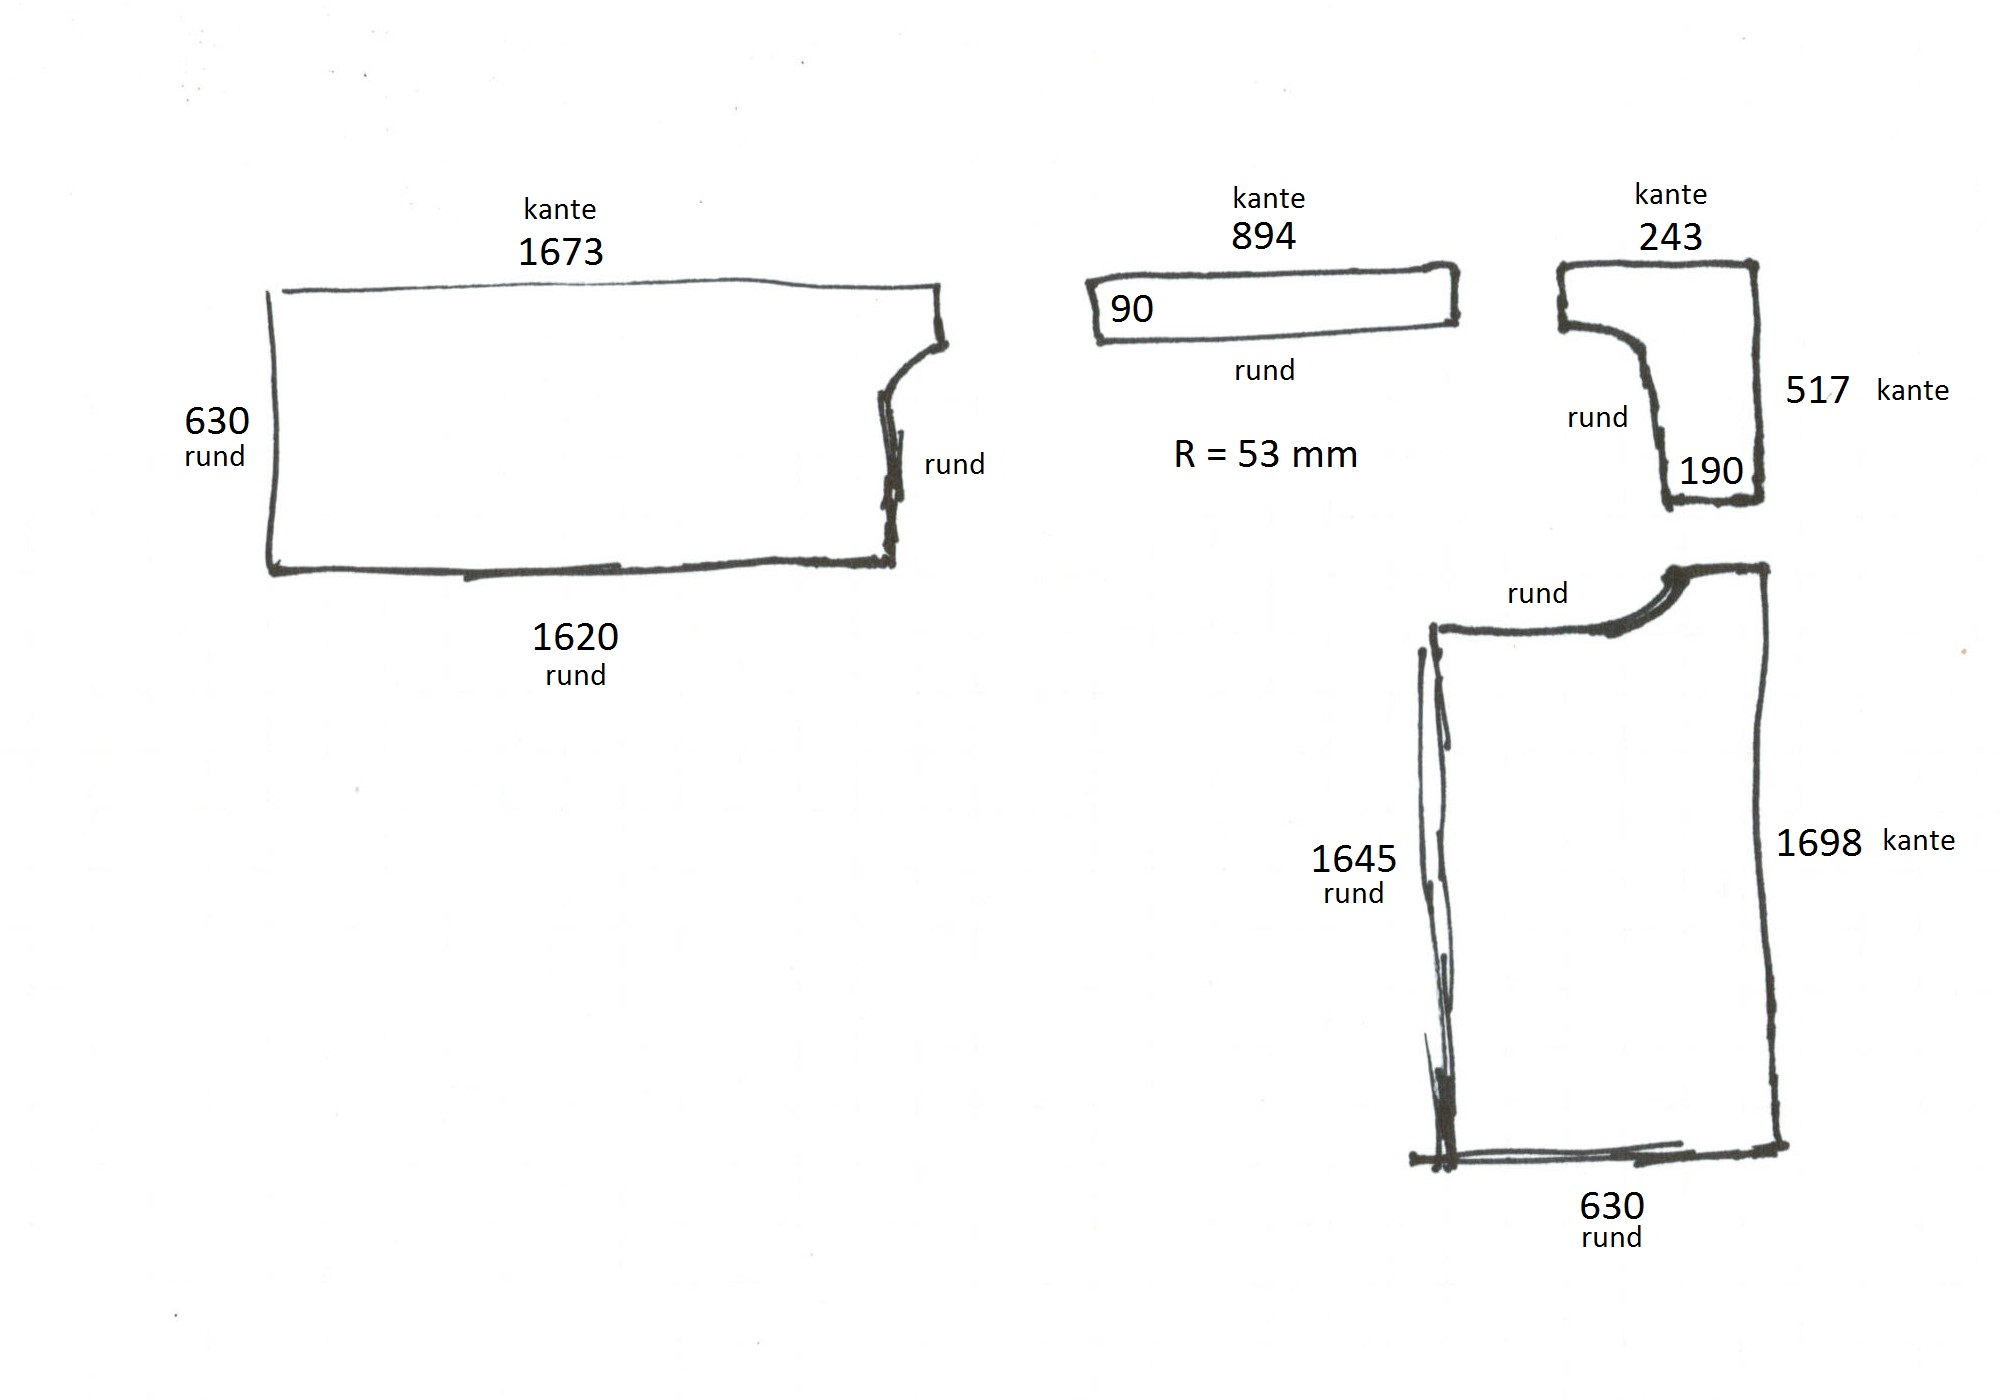
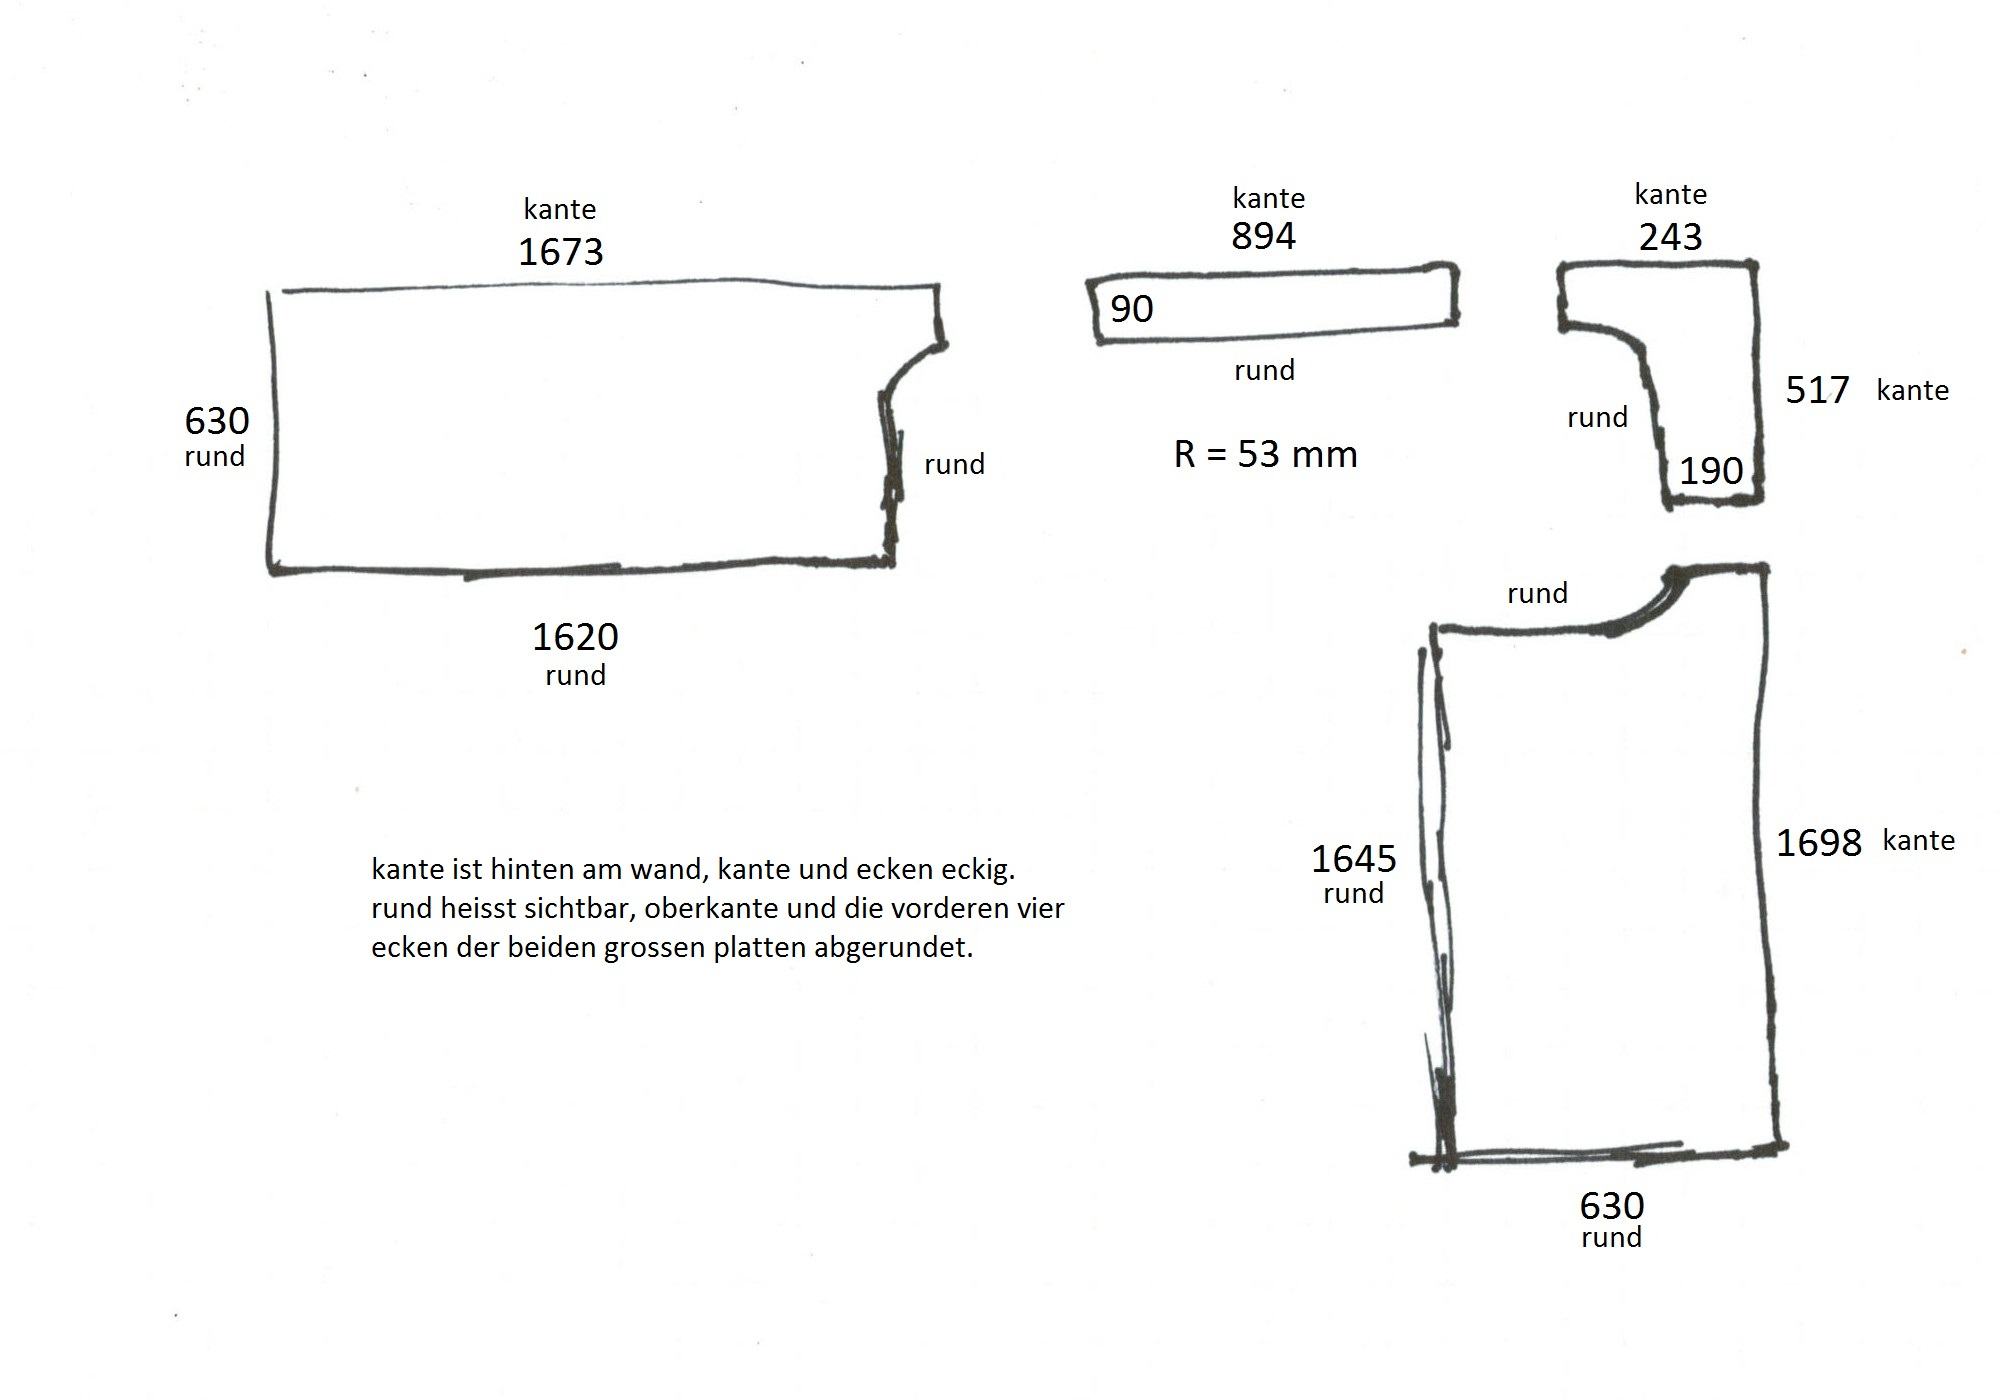
added kitchen window sill sketch

Changed region(s): [[0.186, 0.6143, 0.527, 0.7064]]

diff --git a/index.html b/index.html
@@ -18,7 +18,7 @@
 </ul>
 </li>
 <li>kueche<ul>
-<li>fensterbank im selben stein wie kuechenarbeitsplatte?</li>
+<li>fensterbank im selben stein wie kuechenarbeitsplatte? <a href="img/kuechenfensterbank_skizze_1.jpg">skizze</a></li>
 <li>schubladenfronten 90 * (80+80+40) also 1 m * 2 m = 2 qm <a href="http://www.euroforest-products.de/index.php/de/3-schicht-platten">kirschholz dreischichtplatte</a></li>
 <li>fridge <a href="https://www.notebooksbilliger.de">notebooksbilliger.de</a> <a href="https://www.notebooksbilliger.de/produkte/bomann+kg+185#!/q/bomann%20kg%20185/Marke/Bomann">Bomann KG 185 Weiß Kühl-/Gefrierkombination, A++, 164/61 Liter</a>, eur 299</li>
 <li>wasserarmatur? spueldusche? schwenkhahn mit schnuddel?</li>

diff --git a/index.md b/index.md
@@ -16,7 +16,7 @@
         - [hanno.at](http://www.hanno.at/de/parkettfugenmasse.html): Parkettfugenmasse Für Anschlussfugen bei Parkett- und Laminatböden sowie bei Sockelleisten, lösungsmittelfreie, schnelltrocknende Masse, Silikonfrei, schleifbar, überstreichbar, Nach dem Trocknen geringfügig elastisch, Geruchsfrei.
         - [Ferax](http://ferax.de/parkett-fugenmasse.html): Parkettfugenmasse, gebrauchsfertige, einkomponentige, silikonfreie, lösemittel- und formaldehydfreie Fugenmasse auf der Basis einer hochwertigen Polyacrylat-Dispersion. Eignet sich hervorragend zum Verschließen von Fugen bei allen Arten von Holzböden, wie z. B. Parkett, Dielen, Holzpflaster, Sockelleisten usw. sowohl vor als auch nach der Holzversiegelung. Zum Verfugen von Sockelleisten und anderen Abschlüssen. Nur für den Innenbereich einsetzbar, silikonfrei, lösemittelfrei, geruchsneutral, schnelltrocknend, schleifbar, überstreichbar, ohne Verlaufstörungen überversiegelbar, lange lagerfähig, temperaturbeständig.
 - kueche
-    - fensterbank im selben stein wie kuechenarbeitsplatte?
+    - fensterbank im selben stein wie kuechenarbeitsplatte? [skizze](img/kuechenfensterbank_skizze_1.jpg)
     - schubladenfronten 90 * (80+80+40) also 1 m * 2 m = 2 qm [kirschholz dreischichtplatte](http://www.euroforest-products.de/index.php/de/3-schicht-platten)
     - fridge [notebooksbilliger.de](https://www.notebooksbilliger.de) [Bomann KG 185 Weiß Kühl-/Gefrierkombination, A++, 164/61 Liter](https://www.notebooksbilliger.de/produkte/bomann+kg+185#!/q/bomann%20kg%20185/Marke/Bomann), eur 299
     - wasserarmatur? spueldusche? schwenkhahn mit schnuddel?
